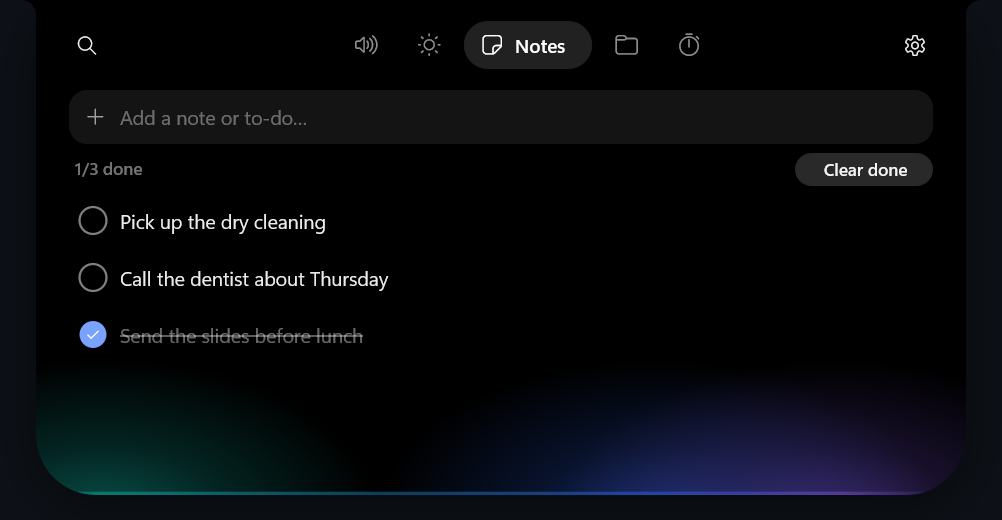
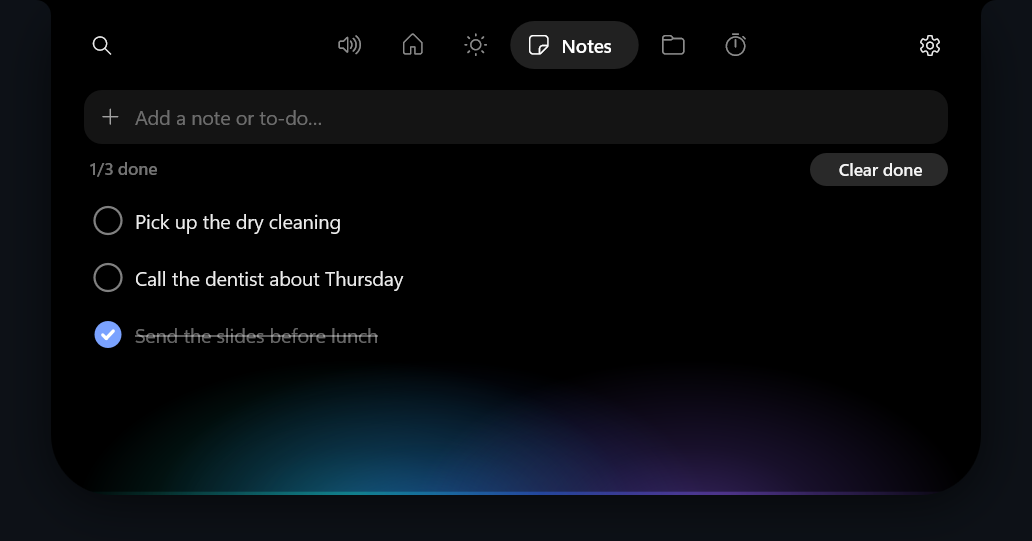
README and Store media: animations as full-color WebP (no more banded glows), real songs shown playing with the glow in their cover's colors, new Music and Downloads sections, Store screenshots for music and downloads; the alert no longer repeats the title; Node used for YouTube's challenge when ins

diff --git a/tools/readme-media/record_all.py b/tools/readme-media/record_all.py
@@ -6,7 +6,7 @@ Build the Debug island first (dotnet build Isola.csproj), then:
   python record_all.py            # everything
   python record_all.py home open  # only these
 """
-import subprocess, sys, time
+import os, subprocess, sys, time
 from pathlib import Path
 
 import sample_data
@@ -16,17 +16,23 @@ ROOT = HERE.parents[1]
 OUT = ROOT / "assets" / "readme"
 PY = sys.executable
 
-# name, showcase state, seconds, start delay, fps, still, extra
+# name, showcase state, seconds, start delay, fps, still, extra, needs ("media": real tracks shown,
+# "tools": the download tools, for a real download into the scratch folder)
+VIDEO = "https://www.youtube.com/watch?v=jNQXAC9IVRw"   # the first video on YouTube, 19 s
 JOBS = [
-    ("hello", "hello", 5, 0, 30, False, ["--padx", "260", "--scale", "1"]),
-    ("open", "expand:home", 4.5, 1.2, 30, False, []),
-    ("search", "search:15% of 80", 5, 1.6, 25, False, []),
-    ("popups", "popups:11,13,12,0,14", 21, 1.5, 20, False, []),
-    ("home", "expand:home", 6, 0, 5, True, []),
-    ("weather", "expand:weather", 6, 0, 5, True, []),
-    ("notes", "expand:notes", 6, 0, 5, True, []),
-    ("timer", "expand:timer", 6, 0, 5, True, []),
-    ("commands", "search:help", 6, 0, 5, True, []),
+    ("hello", "hello", 5, 0, 30, False, ["--padx", "260", "--scale", "1"], ""),
+    ("open", "expand:home", 4.5, 1.2, 30, False, [], ""),
+    ("music", "rest;expand:media@3;next@6.2", 10.5, 0.6, 30, False, [], "media"),
+    ("popups", "popups:11,13,12,0,14", 21, 1.5, 20, False, [], ""),
+    ("downloads", f"download:{VIDEO};rest@6;expand:shelf@13.5", 16, 0.8, 25, False, [], "tools"),
+    ("search", "search:15% of 80", 5, 1.6, 25, False, [], ""),
+    ("home", "expand:home", 6, 0, 5, True, [], ""),
+    ("media", "expand:media", 6, 0, 5, True, [], "media"),
+    ("weather", "expand:weather", 6, 0, 5, True, [], ""),
+    ("notes", "expand:notes", 6, 0, 5, True, [], ""),
+    ("shelf", f"download:{VIDEO};audio:{VIDEO}@4.5;downloads@13", 24, 0, 5, True, [], "tools"),
+    ("timer", "expand:timer", 6, 0, 5, True, [], ""),
+    ("commands", "search:help", 6, 0, 5, True, [], ""),
 ]
 
 
@@ -37,15 +43,22 @@ def main(only):
     try:
         time.sleep(1)
         for theme, bg in (("dark", "0d1117"), ("light", "ffffff")):
-            for name, state, secs, delay, fps, still, extra in JOBS:
+            for name, state, secs, delay, fps, still, extra, needs in JOBS:
                 if only and name not in only:
                     continue
-                sample_data.write("notch", hello=(name == "hello"))
-                out = OUT / f"{name}-{theme}.{'png' if still else 'gif'}"
+                sample_data.write("notch", hello=(name == "hello"), media=(needs == "media"))
+                # animations as WebP: full color, so the glow's gradients stay smooth (GIF's 256 colors banded them)
+                out = OUT / f"{name}-{theme}.{'png' if still else 'webp'}"
                 cmd = [PY, str(HERE / "record.py"), state, str(secs), str(out), "--delay", str(delay), "--fps", str(fps), "--bg", bg, *extra]
                 if still:
                     cmd.append("--still")
-                r = subprocess.run(cmd, capture_output=True, text=True)
+                env = dict(os.environ)
+                if needs == "media":
+                    env["ISOLA_SHOWCASE_MEDIA"] = str(sample_data.WORK / "media" / "tracks.json")
+                if needs == "tools":
+                    env["ISOLA_TOOLS"] = str(sample_data.WORK / "tools")
+                    env["ISOLA_DOWNLOAD_RATE"] = "110K"   # the test video is 600 KB: slowed, its ring fills in about 5 s
+                r = subprocess.run(cmd, capture_output=True, text=True, env=env)
                 print(name, theme, (r.stdout.strip().splitlines() or [""])[-1], r.stderr.strip()[-300:])
     finally:
         stub.terminate()

diff --git a/store/record_sources.py b/store/record_sources.py
@@ -1,0 +1,51 @@
+"""Records the stills the Store screenshots are made from (store/screenshots/src),
+at full resolution, with the sample data the README uses. Then run
+make_screenshots.py. The installed island is closed for each take and comes back.
+
+  python store/record_sources.py [name ...]
+"""
+import os, subprocess, sys
+from pathlib import Path
+
+ROOT = Path(__file__).resolve().parents[1]
+MEDIA = ROOT / "tools" / "readme-media"
+sys.path.insert(0, str(MEDIA))
+import sample_data  # noqa: E402
+
+SRC = ROOT / "store" / "screenshots" / "src"
+VIDEO = "https://www.youtube.com/watch?v=jNQXAC9IVRw"
+# name, showcase state, seconds, needs
+SHOTS = [
+    ("music", "expand:media", 6, "media"),
+    ("popup", "popups:11", 7, ""),
+    ("downloads", f"download:{VIDEO};audio:{VIDEO}@4.5;downloads@13", 17.5, "tools"),
+    ("search", "search:15% of 80", 6, ""),
+    ("home", "expand:home", 6, ""),
+    ("notes", "expand:notes", 6, ""),
+    ("hello", "hello", 4.2, ""),
+]
+
+
+def main(only):
+    SRC.mkdir(parents=True, exist_ok=True)
+    stub = subprocess.Popen([sys.executable, str(MEDIA / "stub_ha.py"), str(sample_data.WORK / "states.json"), str(sample_data.PORT), str(sample_data.WORK / "calls.log")])
+    try:
+        for name, state, secs, needs in SHOTS:
+            if only and name not in only:
+                continue
+            sample_data.write("notch", hello=(name == "hello"), media=(needs == "media"))
+            env = dict(os.environ)
+            if needs == "media":
+                env["ISOLA_SHOWCASE_MEDIA"] = str(sample_data.WORK / "media" / "tracks.json")
+            if needs == "tools":
+                env["ISOLA_TOOLS"] = str(sample_data.WORK / "tools")
+            extra = ["--padx", "260"] if name == "hello" else []
+            r = subprocess.run([sys.executable, str(MEDIA / "record.py"), state, str(secs), str(SRC / f"{name}.png"), "--still", "--scale", "1", "--bg", "0d1117", *extra],
+                               capture_output=True, text=True, env=env)
+            print(name, (r.stdout.strip().splitlines() or [""])[-1], r.stderr.strip()[-200:])
+    finally:
+        stub.terminate()
+
+
+if __name__ == "__main__":
+    main(set(sys.argv[1:]))

diff --git a/tools/readme-media/record.py b/tools/readme-media/record.py
@@ -6,7 +6,7 @@ started again afterwards, whatever happens. Frames are kept only once the
 island is drawing its backdrop: before that, its window shows whatever is on
 the desktop behind it, and that must never end up in a public image.
 
-  python record.py <state> <seconds> <out.gif|out.png> [--delay s] [--fps n]
+  python record.py <state> <seconds> <out.webp|out.gif|out.png> [--delay s] [--fps n]
                    [--bg rrggbb] [--padx px] [--scale f] [--still]
 
 <state> is "rest", "hello" (the start-up animation; set HelloOnLaunch in the
@@ -121,6 +121,7 @@ def main():
     ap.add_argument("--bg", default="0d1117"); ap.add_argument("--padx", type=int, default=24)
     ap.add_argument("--scale", type=float, default=0, help="0: back to 1x (96 DPI) from the screen's scaling")
     ap.add_argument("--still", action="store_true", help="save the last frame as PNG")
+    ap.add_argument("--lossless", action="store_true", help="WebP: lossless (bigger, exact)")
     a = ap.parse_args()
     BG = tuple(int(a.bg[i:i + 2], 16) for i in (0, 2, 4))
     try:
@@ -163,8 +164,13 @@ def main():
             durs[-1] += dur
             continue
         kept.append(f); durs.append(dur)
-    pal = [f.quantize(colors=255, method=Image.Quantize.MEDIANCUT, dither=Image.Dither.NONE) for f in kept]
-    pal[0].save(a.out, save_all=True, append_images=pal[1:], duration=[int(d) for d in durs], loop=0, optimize=True, disposal=1)
+    if a.out.lower().endswith(".webp"):
+        # full color (a GIF's 256 colors per frame turned the glow's gradients into steps)
+        kept[0].save(a.out, save_all=True, append_images=kept[1:], duration=[int(d) for d in durs], loop=0,
+                     lossless=a.lossless, quality=95 if not a.lossless else 80, method=6)
+    else:
+        pal = [f.quantize(colors=255, method=Image.Quantize.MEDIANCUT, dither=Image.Dither.NONE) for f in kept]
+        pal[0].save(a.out, save_all=True, append_images=pal[1:], duration=[int(d) for d in durs], loop=0, optimize=True, disposal=1)
     print(f"{len(frames)} frames at {real_fps:.1f} fps -> {len(kept)} kept, {os.path.getsize(a.out) // 1024} KB, {kept[0].size} -> {a.out}")
 
 

diff --git a/store/make_screenshots.py b/store/make_screenshots.py
@@ -61,8 +61,12 @@ def shot(island, title, sub, name):
     print(name)
 
 
-shot(Image.open(SRC / "home.png").convert("RGB"), "Your home, at the top of the screen", "Lights, scenes, climate and locks from Home Assistant, a click away", "1-home.png")
+for old in OUT.glob("*.png"):
+    old.unlink()   # the set changes; none of the last one stays behind
+shot(Image.open(SRC / "music.png").convert("RGB"), "Your music, alive at the top", "The cover, a waveform and a glow in its colors, whatever app is playing", "1-music.png")
 shot(Image.open(SRC / "popup.png").convert("RGB"), "Notifications that don't get in the way", "Messages, calls from your phone, music and devices, in one small pill", "2-popups.png")
-shot(Image.open(SRC / "search.png").convert("RGB"), "A launcher on Alt+Space", "Math, units, commands, apps and files as you type", "3-search.png")
-shot(Image.open(SRC / "notes.png").convert("RGB"), "Notes and to-dos, always at hand", "Weather, a file shelf, your clipboard and a timer are a scroll away", "4-notes.png")
-shot(Image.open(SRC / "hello.png").convert("RGB"), "Isola", "A small, fast island for Windows: about 30 MB of memory, no telemetry", "5-hello.png")
+shot(Image.open(SRC / "downloads.png").convert("RGB"), "Paste a link, get the video", "Download from YouTube and most sites, or convert a file to MP3, MP4 or GIF", "3-downloads.png")
+shot(Image.open(SRC / "search.png").convert("RGB"), "A launcher on Alt+Space", "Math, units, commands, apps and files as you type", "4-search.png")
+shot(Image.open(SRC / "home.png").convert("RGB"), "Your home, at the top of the screen", "Lights, scenes, climate and locks from Home Assistant, a click away", "5-home.png")
+shot(Image.open(SRC / "notes.png").convert("RGB"), "Notes and to-dos, always at hand", "Weather, a file shelf, your clipboard and a timer are a scroll away", "6-notes.png")
+shot(Image.open(SRC / "hello.png").convert("RGB"), "Isola", "A small, fast island for Windows: about 30 MB of memory, no telemetry", "7-hello.png")

diff --git a/src/Services/Downloads.cs b/src/Services/Downloads.cs
@@ -222,7 +222,9 @@ public sealed class Downloads
         {
             "--ignore-config", "--no-playlist", "--newline", "--progress", "--no-colors", "--windows-filenames", "--no-mtime", "--quiet",
             "--ffmpeg-location", tools.PathOf("ffmpeg"),
-            "--js-runtimes", "quickjs:" + tools.PathOf("quickjs"),
+            // YouTube's player needs a JavaScript engine: Node when it's installed (it solves
+            // YouTube's challenge in about half the time), else the QuickJS Isola keeps
+            "--js-runtimes", "node", "--js-runtimes", "quickjs:" + tools.PathOf("quickjs"),
             "-P", dest, "-P", "temp:" + TempDir,
             "-o", "%(title).150B.%(ext)s",
             "--progress-template", "download:ISOLA|dl|%(progress.downloaded_bytes)s|%(progress.total_bytes)s|%(progress.total_bytes_estimate)s|%(progress.speed)s|%(progress.eta)s|%(info.vcodec)s|%(info.acodec)s",
@@ -238,6 +240,8 @@ public sealed class Downloads
             // H.264 and AAC first, so the MP4 plays everywhere (Windows' player, phones, editors)
             a.AddRange(new[] { "-f", "bv*+ba/b", "-S", "vcodec:h264" + cap + ",acodec:m4a", "--merge-output-format", "mp4", "--embed-metadata" });
         }
+        // recordings only (README, trailer): a real download, slowed so its progress can be seen
+        if (Environment.GetEnvironmentVariable("ISOLA_DOWNLOAD_RATE") is { Length: > 0 } rate && System.Text.RegularExpressions.Regex.IsMatch(rate, @"^\d+[KM]?$")) a.AddRange(new[] { "--limit-rate", rate });
         a.Add("--");   // whatever comes next is the link, never an option
         a.Add(job.Source);
         return a;

diff --git a/tools/readme-media/sample_data.py b/tools/readme-media/sample_data.py
@@ -29,9 +29,9 @@ def write(style="notch", hello=False, media=False):
         "Notifications": False, "Calls": False, "HideWindowsBanners": False, "Sounds": False,
         "AutoUpdate": False, "Clipboard": False, "Shelf": True,
         # recordings with music use ShowcaseMedia (tracks.json): shown, never played
-        "Media": media, "MediaWaveform": True,
+        "Media": media, "MediaWaveform": True, "SpotifyVolume": False,
         # downloads go to a scratch folder here, never the real Downloads
-        "Downloads": True, "DownloadTo": "folder", "DownloadFolder": str(WORK / "downloads"),
+        "Downloads": True, "DownloadTo": "folder", "DownloadFolder": str(WORK / "Downloads"),
         "WeatherSource": "homeassistant", "WeatherEntity": "weather.home",
         "HaBaseUrl": f"http://127.0.0.1:{PORT}", "HaToken": "sample",
         "HaEntities": ["light.living_room", "light.desk_lamp", "light.kitchen", "scene.movie_night",
@@ -75,7 +75,7 @@ def write(style="notch", hello=False, media=False):
         {"Kind": "text", "Text": "Flight AB 123 lands 18:40, terminal 2", "Added": (now - timedelta(hours=3)).isoformat()},
     ]
     (HOME / "shelf.json").write_text(json.dumps(shelf, indent=1), encoding="utf-8")
-    (WORK / "downloads").mkdir(exist_ok=True)
+    (WORK / "Downloads").mkdir(exist_ok=True)
     for f in ("downloads.json",):
         try: (HOME / f).unlink()
         except FileNotFoundError: pass

diff --git a/src/App/Alerts.cs b/src/App/Alerts.cs
@@ -99,7 +99,8 @@ public static class Alerts
     public static Alert DownloadDone(DownloadJob job, Action open, Action reveal) => new()
     {
         Key = "download:" + job.Id, Kind = "download", Title = job.Kind == "convert" ? "Converted" : "Downloaded",
-        Subtitle = job.ToShelf ? "On your shelf" : Path.GetFileName(job.Output), Detail = job.Label,
+        // the file's name already says what it is; on the shelf, say where it went
+        Subtitle = job.ToShelf ? job.Label : Path.GetFileName(job.Output), Detail = job.ToShelf ? "On your shelf" : "",
         Glyph = Glyph.Download, Accent = Col.Hex(0x34c759), Seconds = 6, Sound = Services.Sounds.Notification,
         Actions =
         {

diff --git a/src/Services/ShowcaseMedia.cs b/src/Services/ShowcaseMedia.cs
@@ -44,6 +44,9 @@ public sealed class ShowcaseMedia : IMediaSourceEx
         tracks = JsonSerializer.Deserialize(File.ReadAllText(listFile), ShowcaseJson.Default.ListTrack) ?? new();
         if (tracks.Count == 0) tracks.Add(new Track { Title = "Track", Artist = "Artist" });
         Load(0);
+        // announced once the island is listening, as the real player is when it first reads the
+        // session: the island takes the glow's colors from the cover then (it stayed on the defaults)
+        Ui.After(0.3, () => Changed?.Invoke());
     }
 
     void Load(int i)

diff --git a/README.md b/README.md
@@ -1,7 +1,7 @@
 <p align="center">
   <picture>
-    <source media="(prefers-color-scheme: dark)" srcset="assets/readme/hello-dark.gif">
-    <img src="assets/readme/hello-light.gif" alt="Isola's notch saying hello as it starts" width="640">
+    <source media="(prefers-color-scheme: dark)" srcset="assets/readme/hello-dark.webp">
+    <img src="assets/readme/hello-light.webp" alt="Isola's notch saying hello as it starts" width="640">
   </picture>
 </p>
 
@@ -32,7 +32,7 @@ happening as it happens (a notification, a call, a song, your AirPods
 connecting) and opens into a dashboard when you click it. Press `Alt+Space`
 and it turns into a launcher.
 
-<p align="center"><picture><source media="(prefers-color-scheme: dark)" srcset="assets/readme/open-dark.gif"><img src="assets/readme/open-light.gif" alt="The island opening into the Home dashboard" width="651"></picture></p>
+<p align="center"><picture><source media="(prefers-color-scheme: dark)" srcset="assets/readme/open-dark.webp"><img src="assets/readme/open-light.webp" alt="The island opening into the Home dashboard" width="651"></picture></p>
 
 ## Light on your computer
 
@@ -46,7 +46,7 @@ rights.
 | CPU, nothing moving | under 0.1% |
 | CPU, music playing (the waveform moves) | about 0.4% |
 | Download | 8 MB installer |
-| On disk | 19 MB |
+| On disk | 19 MB, plus 130 MB for the download tools once you use them |
 
 It draws frames only while something moves, paced to your display, on the
 power-saving GPU. The drifting glow and the waveform are what keep it drawing;
@@ -58,7 +58,7 @@ back if Isola ever stops (more on that [below](#what-it-changes-in-windows)).
 
 ### Popups
 
-<p align="center"><picture><source media="(prefers-color-scheme: dark)" srcset="assets/readme/popups-dark.gif"><img src="assets/readme/popups-light.gif" alt="A message, an incoming call, a song, AirPods and a timer, one after another" width="484"></picture></p>
+<p align="center"><picture><source media="(prefers-color-scheme: dark)" srcset="assets/readme/popups-dark.webp"><img src="assets/readme/popups-light.webp" alt="A message, an incoming call, a song, AirPods and a timer, one after another" width="484"></picture></p>
 
 Notifications with the sending app's icon, calls from your phone through Phone
 Link (answer or decline right on the island), track changes, Bluetooth devices
@@ -72,6 +72,43 @@ Isola has its own sounds, made in code: chimes for notifications, ringtones
 for calls, alarms for the timer, and soft clicks and tones for devices, the
 charger and low battery. Each has four to six to pick from, all matched in
 loudness so none is jarringly louder than another, or you can turn them off.
+They play the moment something happens, and one volume setting (50% to 150%)
+sets them all.
+
+### Music
+
+<p align="center"><picture><source media="(prefers-color-scheme: dark)" srcset="assets/readme/music-dark.webp"><img src="assets/readme/music-light.webp" alt="A song playing in the pill with a waveform, then the Now Playing tab and the next track" width="680"></picture></p>
+
+Whatever is playing (Spotify, a browser, any media app) sits in the pill with
+its cover and a waveform. Open it for the cover, seek, skip, shuffle and
+repeat. The glow along the bottom takes its colors from the cover and changes
+with every track.
+
+### Downloads and conversion
+
+<p align="center"><picture><source media="(prefers-color-scheme: dark)" srcset="assets/readme/downloads-dark.webp"><img src="assets/readme/downloads-light.webp" alt="A YouTube link pasted into the Shelf, its progress in the pill, then Downloaded" width="690"></picture></p>
+
+Paste a link into the bar on the Shelf tab, pick Video or Audio, and press
+Enter. It works with YouTube and most other video and music sites. Its
+progress shows in the pill while you do something else, and the file lands in
+your Downloads folder, a folder you choose, or on the Shelf. Videos come as
+MP4 up to 1080p (or the best there is), audio as MP3 or M4A.
+
+Any video or song on the Shelf converts to MP4, MP3, GIF, M4A, WAV or WebM, or
+to a smaller MP4, from the button on its tile. The launcher does both too:
+`download` or `audio` followed by a link, `convert mp3`, and `downloads` for
+the history.
+
+<p align="center"><picture><source media="(prefers-color-scheme: dark)" srcset="assets/readme/shelf-dark.png"><img src="assets/readme/shelf-light.png" alt="The Downloads panel: one download finding its audio, one finished" width="560"></picture></p>
+
+The work is done by [yt-dlp](https://github.com/yt-dlp/yt-dlp),
+[FFmpeg](https://ffmpeg.org/) (the "essentials" build by
+[Gyan](https://www.gyan.dev/ffmpeg/builds/)) and
+[QuickJS](https://github.com/quickjs-ng/quickjs). They aren't in the installer:
+Isola fetches them from each project's GitHub releases the first time you
+download (about 130 MB), checks every file against the checksum GitHub
+publishes, and updates them once a day. They sit in Isola's own folder and go
+when you uninstall it. Download only what you have the right to keep.
 
 ### Dashboard
 
@@ -79,6 +116,7 @@ loudness so none is jarringly louder than another, or you can turn them off.
 |---|---|
 | <picture><source media="(prefers-color-scheme: dark)" srcset="assets/readme/home-dark.png"><img src="assets/readme/home-light.png" alt="Home Assistant tiles" width="420"></picture> | <picture><source media="(prefers-color-scheme: dark)" srcset="assets/readme/weather-dark.png"><img src="assets/readme/weather-light.png" alt="Weather" width="420"></picture> |
 | <picture><source media="(prefers-color-scheme: dark)" srcset="assets/readme/notes-dark.png"><img src="assets/readme/notes-light.png" alt="Notes and to-dos" width="420"></picture> | <picture><source media="(prefers-color-scheme: dark)" srcset="assets/readme/timer-dark.png"><img src="assets/readme/timer-light.png" alt="Timer" width="420"></picture> |
+| <picture><source media="(prefers-color-scheme: dark)" srcset="assets/readme/media-dark.png"><img src="assets/readme/media-light.png" alt="Now Playing with the song's cover" width="420"></picture> | |
 
 Click the island and scroll sideways through the tabs:
 
@@ -91,7 +129,8 @@ Click the island and scroll sideways through the tabs:
 * **Weather** from Home Assistant or [Open-Meteo](https://open-meteo.com/)
 * **Notes** and to-dos
 * **Shelf**: drop files, text, links or images on the island to park them,
-  then drag them back out anywhere
+  then drag them back out anywhere. Its bar downloads from a link (see
+  [Downloads and conversion](#downloads-and-conversion))
 * **Clipboard**: your Windows clipboard history (Win+V)
 * **Timer**: tap a length or type one (`7m`, `1:30`, `1h 20m`). It counts down
   in the pill and keeps running through a restart
@@ -99,7 +138,7 @@ Click the island and scroll sideways through the tabs:
 
 ### Search and commands
 
-<p align="center"><picture><source media="(prefers-color-scheme: dark)" srcset="assets/readme/search-dark.gif"><img src="assets/readme/search-light.gif" alt="Typing 15% of 80 into the launcher" width="734"></picture></p>
+<p align="center"><picture><source media="(prefers-color-scheme: dark)" srcset="assets/readme/search-dark.webp"><img src="assets/readme/search-light.webp" alt="Typing 15% of 80 into the launcher" width="734"></picture></p>
 
 `Alt+Space` (or pull the island down) opens a launcher that answers as you
 type: math (`15% of 80`), units (`10 km to mi`), colors (`#ff8800`), the time

diff --git a/store/README.md b/store/README.md
@@ -114,12 +114,13 @@ Certification Kit (as administrator):
 
 **Description**
 
-> Isola puts a small pill at the top of your screen. It shows what's happening as it happens: notifications with the app's icon, calls from your phone through Phone Link, the song that's playing, your Bluetooth devices and AirPods battery, and a timer. Click it for a dashboard with media controls, per-app volume, Home Assistant devices, weather, notes, a file shelf and your clipboard history. Press Alt+Space and it becomes a launcher with math, unit conversion and commands.
+> Isola puts a small pill at the top of your screen. It shows what's happening as it happens: notifications with the app's icon, calls from your phone through Phone Link, the song that's playing with its cover and a glow in its colors, your Bluetooth devices and AirPods battery, and a timer. Click it for a dashboard with media controls, per-app volume, Home Assistant devices, weather, notes, a file shelf and your clipboard history. Paste a link into the shelf to download a video or its audio from YouTube and most other sites, or convert a file to MP3, MP4 or GIF. Press Alt+Space and it becomes a launcher with math, unit conversion and commands.
 >
 > It's light on your computer (about 30 MB of memory, under 0.1% CPU at rest), has no account and no telemetry, and is free and open source under GPL-3.0.
 
-**Screenshots:** `store/screenshots/1-home.png` to `5-hello.png` (1920x1080),
-made from sample data by `make_screenshots.py`.
+**Screenshots:** `store/screenshots/1-music.png` to `7-hello.png` (1920x1080):
+`record_sources.py` records the stills from sample data, then
+`make_screenshots.py` frames them.
 
 **Privacy policy URL:** `https://github.com/Scriptily/isola-notch/blob/main/PRIVACY.md`
 

diff --git a/tools/readme-media/README.md b/tools/readme-media/README.md
@@ -1,6 +1,7 @@
 # README media
 
-The scripts that make the images and GIFs in the main README and the logos in
+The scripts that make the images and animations (WebP, full color, so the
+glow's gradients don't band as they did in GIFs) in the main README and the logos in
 `assets/`. Re-record whenever a feature on the page changes, so the page
 always shows the app as it is.
 
@@ -25,6 +26,12 @@ python tools\readme-media\logos.py                # the logos and wordmarks
 | `sample_data.py` | Writes the sample data folder into `.work/` (ignored by git) |
 | `stub_ha.py` | A stand-in Home Assistant serving the sample devices on `127.0.0.1:8125` |
 | `logos.py` | The icon with the name, with and without the tagline, and the name alone |
+
+Two more switches for recordings: `ISOLA_SHOWCASE_MEDIA` (a tracks.json in
+`.work/media`) shows real songs playing without playing anything, and
+`ISOLA_TOOLS` points at a copy of the download tools so a take downloads for
+real (slowed by `ISOLA_DOWNLOAD_RATE`, into `.work/Downloads`). Showcase states
+chain: `download:<link>;rest@6;expand:shelf@13.5`.
 
 A take keeps a frame only if the window's edges show the backdrop. Until the
 island draws its first frame, its window shows whatever is behind it on the
